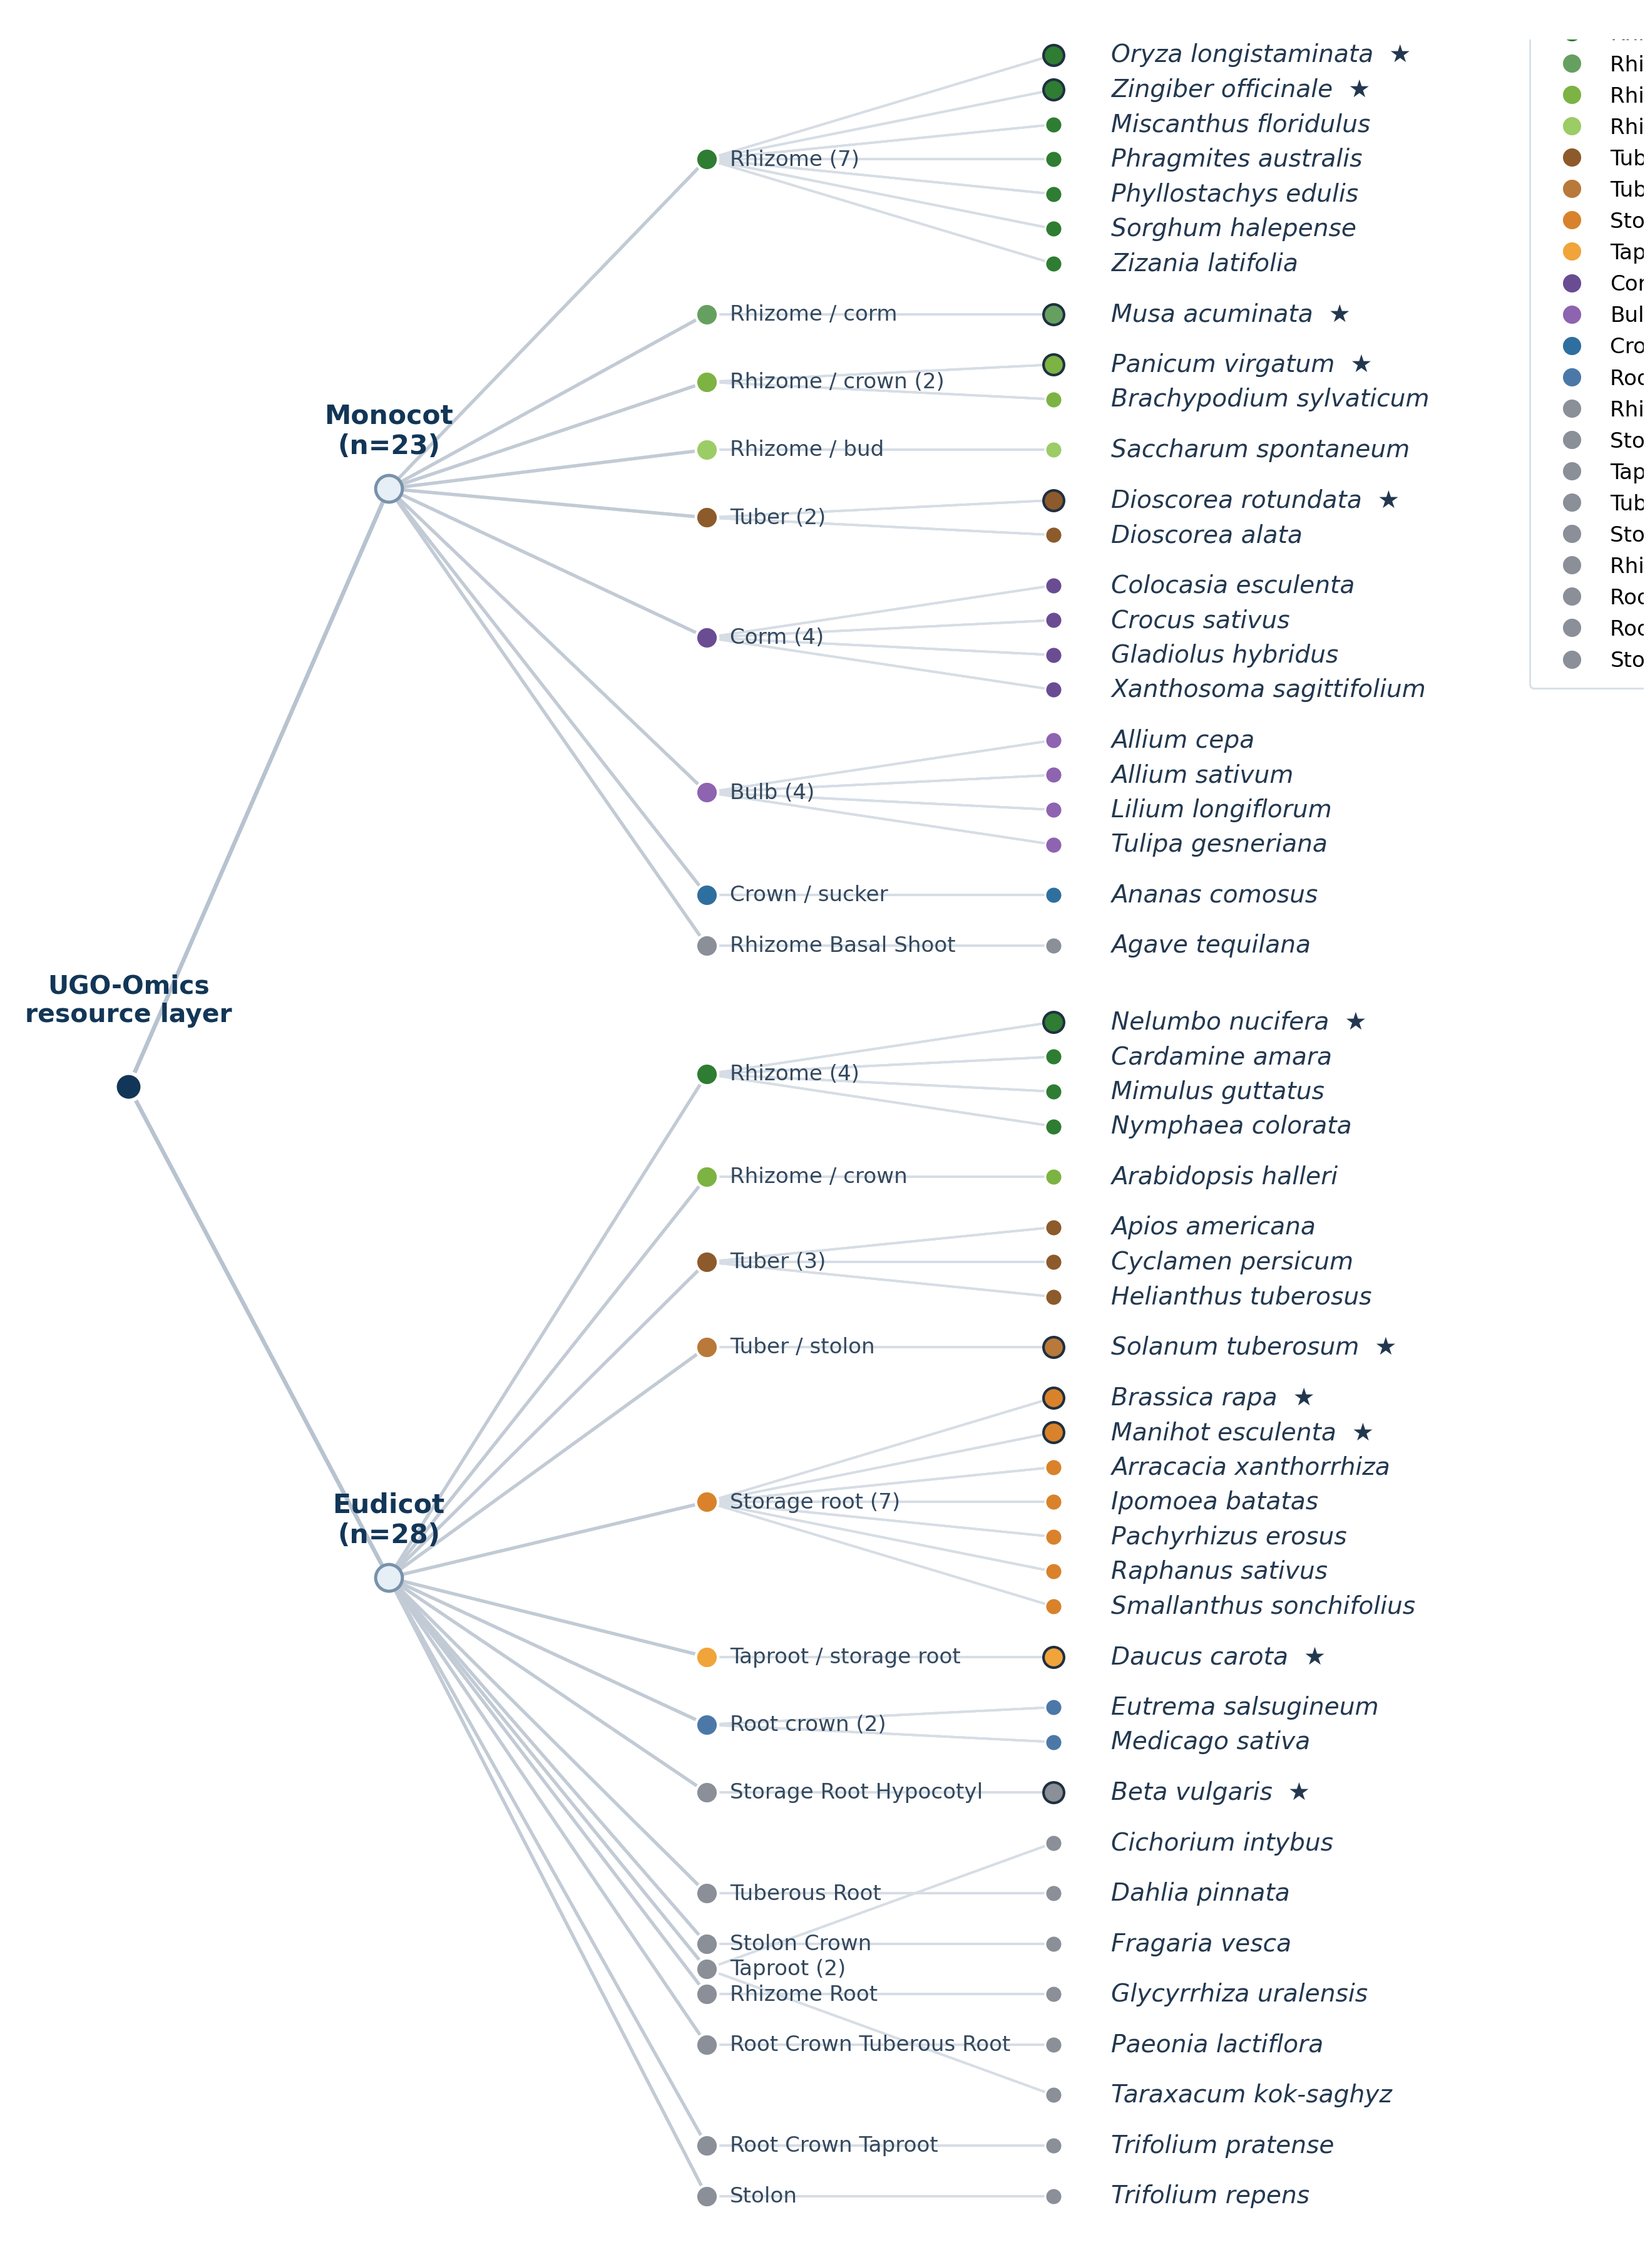
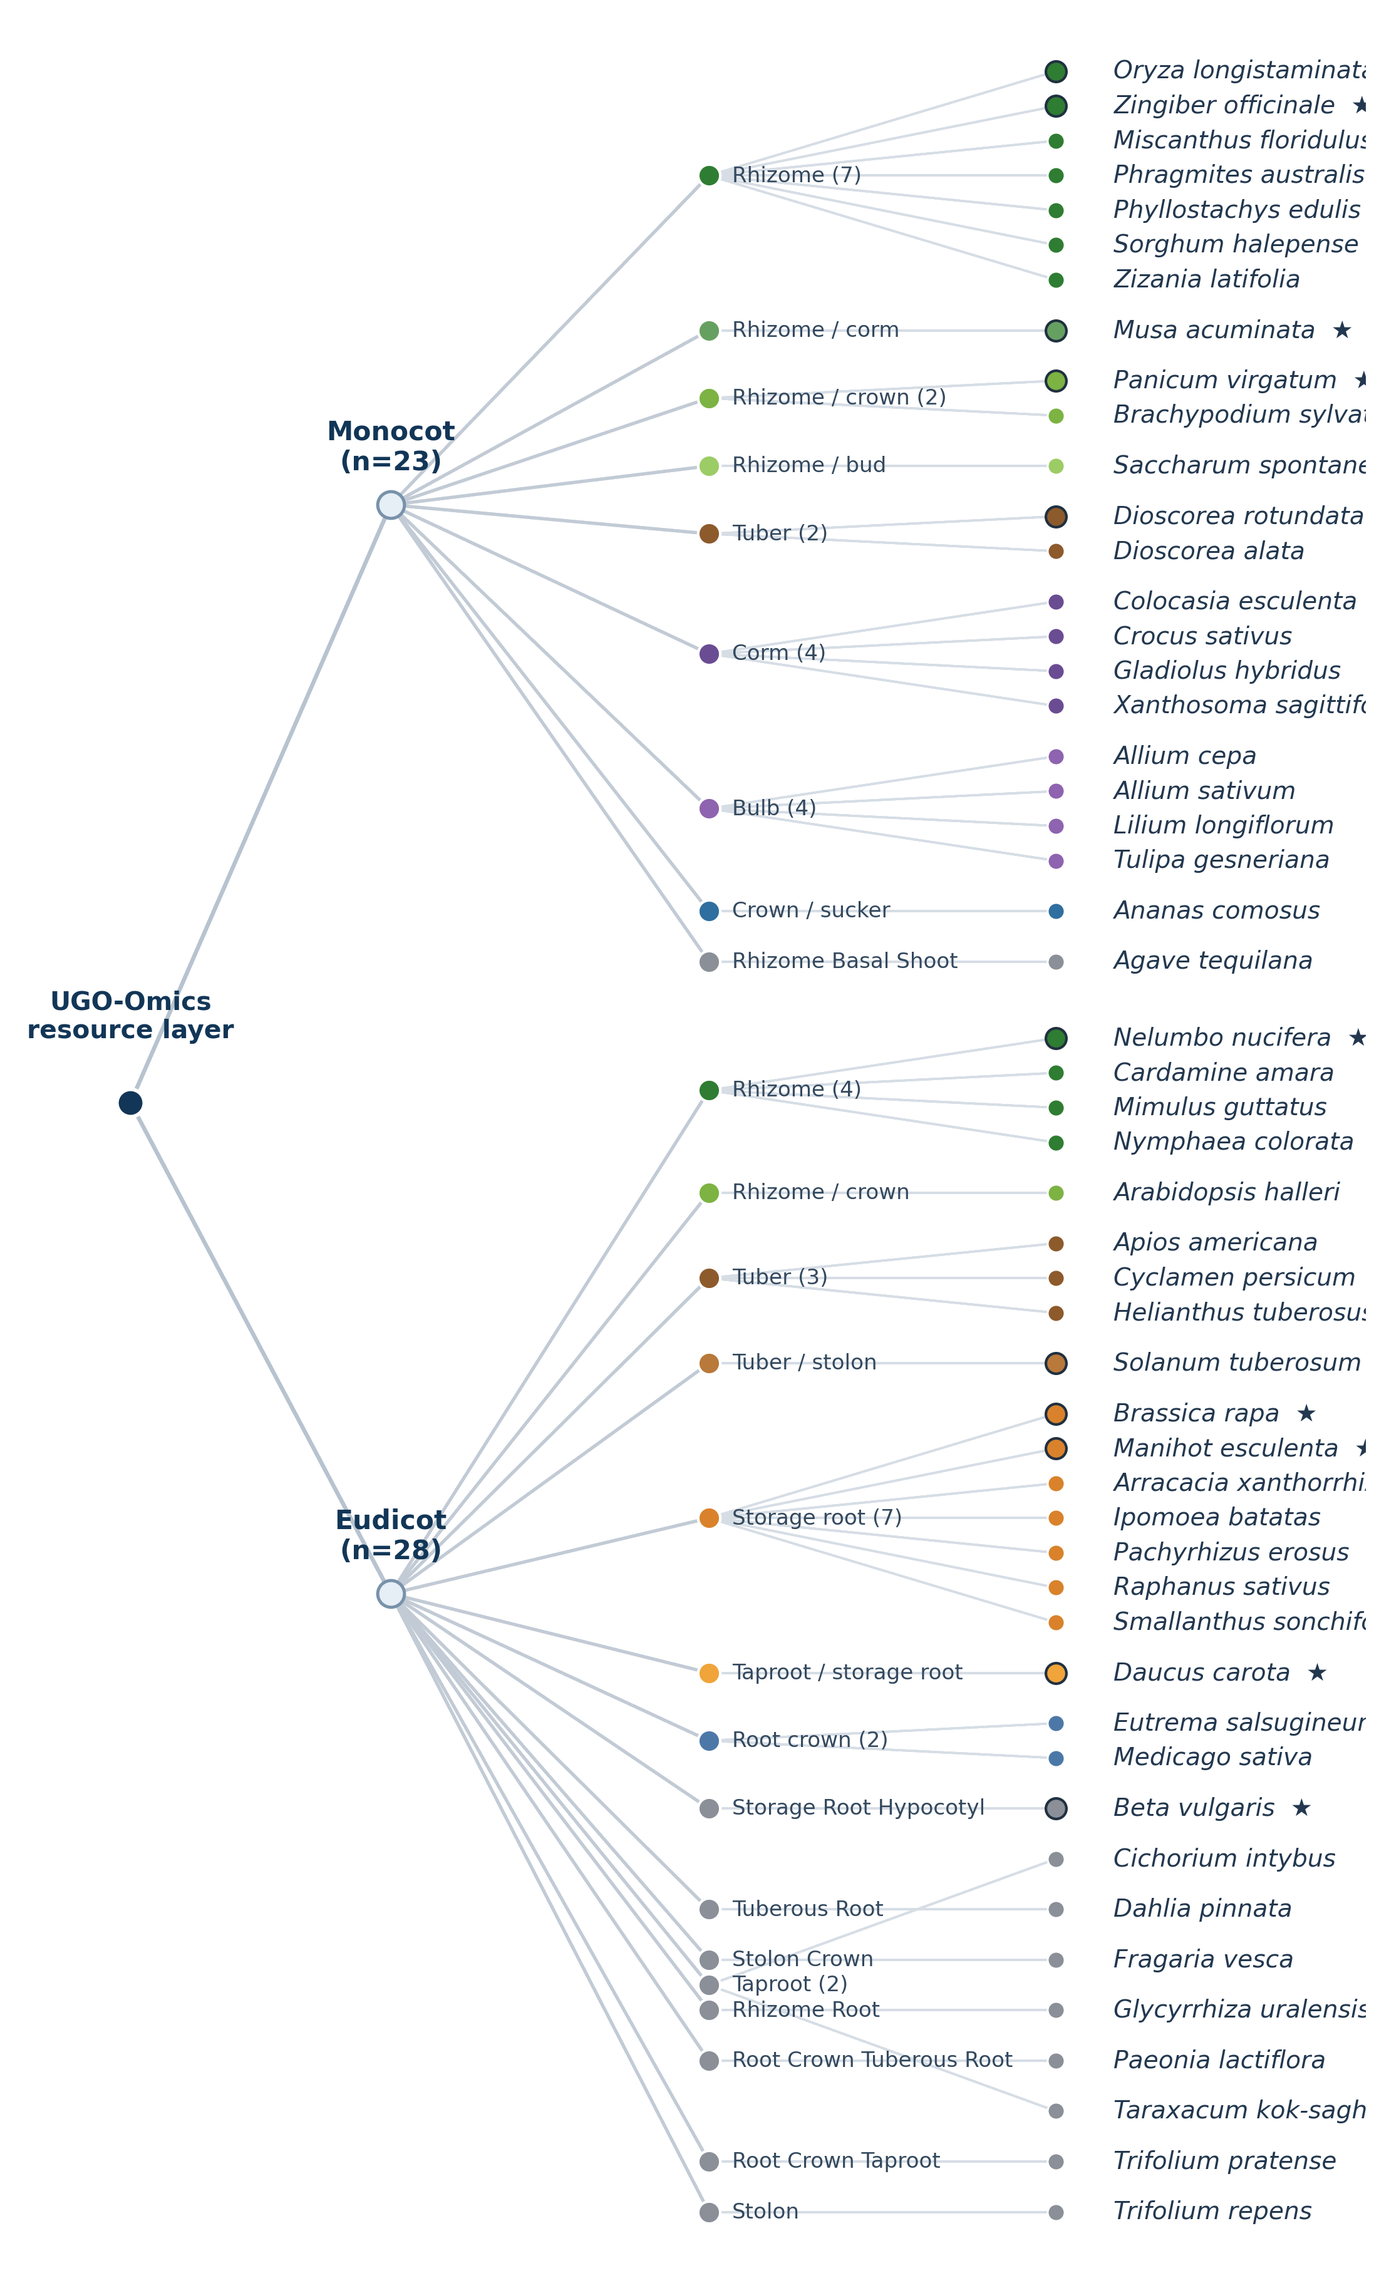
Equalize homepage cards and shift phylogeny left

diff --git a/docs/index.html b/docs/index.html
@@ -1,3 +1,4 @@
+<!-- UGO_V5_3_16_EQUAL_CARDS_SHIFT_PHYLOGENY_LEFT 2026-06-04 14:01:31 -->
 <!-- UGO_V5_3_14_ENLARGE_HOME_PHYLOGENY_BOARD 2026-06-04 13:18:56 -->
 <!-- UGO_V5_3_13_BIGGER_WHITE_PHYLOGENY_HOME 2026-06-04 13:14:50 -->
 <!-- UGO_V5_3_12_MAXIMIZE_HOME_PHYLOGENY_REMOVE_FOOTER 2026-06-04 13:09:47 -->
@@ -1788,64 +1789,25 @@ body.ugo-v5-2-52-non-home-view #home-key-results {
 </style>
 
 
-<style id="ugo-v5-3-10-clean-home-key-results-text-only-style">
+
+
+
+
+
+
+
+
+
+
+
+
+<style id="ugo-v5-3-16-equal-cards-shift-phylogeny-left-style">
 /* ============================================================
-   v5.3.10: clean Home key-results text only.
-   Scope: #home-key-results only.
-   This hides text below the navigation while preserving the images.
-   ============================================================ */
-
-#home-key-results .section-header {
-  display: none !important;
-}
-
-#home-key-results .ugo-v5-2-51-result-text {
-  display: none !important;
-}
-
-#home-key-results {
-  padding-top: 34px !important;
-  padding-bottom: 58px !important;
-}
-
-#home-key-results .ugo-v5-2-51-results-grid {
-  margin-top: 0 !important;
-}
-
-#home-key-results .ugo-v5-2-51-result-card {
-  overflow: hidden !important;
-}
-
-#home-key-results .ugo-v5-2-51-result-image {
-  height: 500px !important;
-  border-bottom: none !important;
-}
-
-#home-key-results .ugo-v5-2-51-result-image img {
-  width: 100% !important;
-  height: 100% !important;
-  object-fit: contain !important;
-  object-position: center center !important;
-}
-</style>
-
-
-
-
-
-
-
-
-
-
-<style id="ugo-v5-3-14-enlarge-home-phylogeny-board-style">
-/* ============================================================
-   v5.3.14: enlarge the Home phylogeny white board/card.
+   v5.3.16: equal Home cards and shift phylogeny left.
    Scope: Home key-results and footer only.
    Does not modify navigation, dropdowns, or non-Home page logic.
    ============================================================ */
 
-/* remove text and whitespace below navigation */
 #home-key-results {
   padding-top: 0 !important;
   padding-bottom: 0 !important;
@@ -1859,21 +1821,23 @@ body.ugo-v5-2-52-non-home-view #home-key-results {
   display: none !important;
 }
 
-/* make the result area wider and let the left card dominate */
+/* two equal white cards */
 #home-key-results .ugo-v5-2-51-results-grid {
   width: calc(100vw - 72px) !important;
   max-width: none !important;
   margin-left: calc(50% - 50vw + 36px) !important;
   margin-right: calc(50% - 50vw + 36px) !important;
   margin-top: 0 !important;
-  gap: 24px !important;
+  margin-bottom: 0 !important;
   display: grid !important;
-  grid-template-columns: minmax(980px, 1.75fr) minmax(520px, 0.95fr) !important;
+  grid-template-columns: minmax(0, 1fr) minmax(0, 1fr) !important;
+  gap: 24px !important;
   align-items: stretch !important;
 }
 
-/* bigger, cleaner white boards */
 #home-key-results .ugo-v5-2-51-result-card {
+  width: 100% !important;
+  max-width: none !important;
   background: #ffffff !important;
   border-radius: 22px !important;
   border: 1px solid rgba(15, 61, 96, 0.14) !important;
@@ -1883,10 +1847,10 @@ body.ugo-v5-2-52-non-home-view #home-key-results {
   overflow: hidden !important;
 }
 
-/* left white board: substantially taller */
-#home-key-results .ugo-v5-2-51-result-card:first-child .ugo-v5-2-51-result-image {
-  height: calc(100vh - 82px) !important;
-  min-height: 980px !important;
+/* equal card heights */
+#home-key-results .ugo-v5-2-51-result-image {
+  height: calc(100vh - 92px) !important;
+  min-height: 900px !important;
   max-height: none !important;
   width: 100% !important;
   padding: 0 !important;
@@ -1898,8 +1862,21 @@ body.ugo-v5-2-52-non-home-view #home-key-results {
   justify-content: center !important;
 }
 
-/* no hard over-zoom; let the enlarged white board make the image bigger naturally */
+/* shift phylogeny slightly left so the full tree/species labels are visible */
 #home-key-results .ugo-v5-2-51-result-card:first-child .ugo-v5-2-51-result-image img {
+  width: 100% !important;
+  height: 100% !important;
+  object-fit: contain !important;
+  object-position: 44% center !important;
+  display: block !important;
+  padding: 0 !important;
+  margin: 0 !important;
+  background: #ffffff !important;
+  transform: none !important;
+}
+
+/* keep recurrent module card visually matched */
+#home-key-results .ugo-v5-2-51-result-card:nth-child(2) .ugo-v5-2-51-result-image img {
   width: 100% !important;
   height: 100% !important;
   object-fit: contain !important;
@@ -1911,29 +1888,7 @@ body.ugo-v5-2-52-non-home-view #home-key-results {
   transform: none !important;
 }
 
-/* right card aligned but not controlling layout */
-#home-key-results .ugo-v5-2-51-result-card:nth-child(2) .ugo-v5-2-51-result-image {
-  height: calc(100vh - 82px) !important;
-  min-height: 980px !important;
-  max-height: none !important;
-  padding: 0 !important;
-  margin: 0 !important;
-  border-bottom: none !important;
-  background: #ffffff !important;
-}
-
-#home-key-results .ugo-v5-2-51-result-card:nth-child(2) .ugo-v5-2-51-result-image img {
-  width: 100% !important;
-  height: 100% !important;
-  object-fit: contain !important;
-  object-position: center center !important;
-  display: block !important;
-  padding: 0 !important;
-  margin: 0 !important;
-  background: #ffffff !important;
-}
-
-/* remove footer line and its whitespace */
+/* remove footer line and whitespace */
 footer,
 .site-footer,
 .footer {
